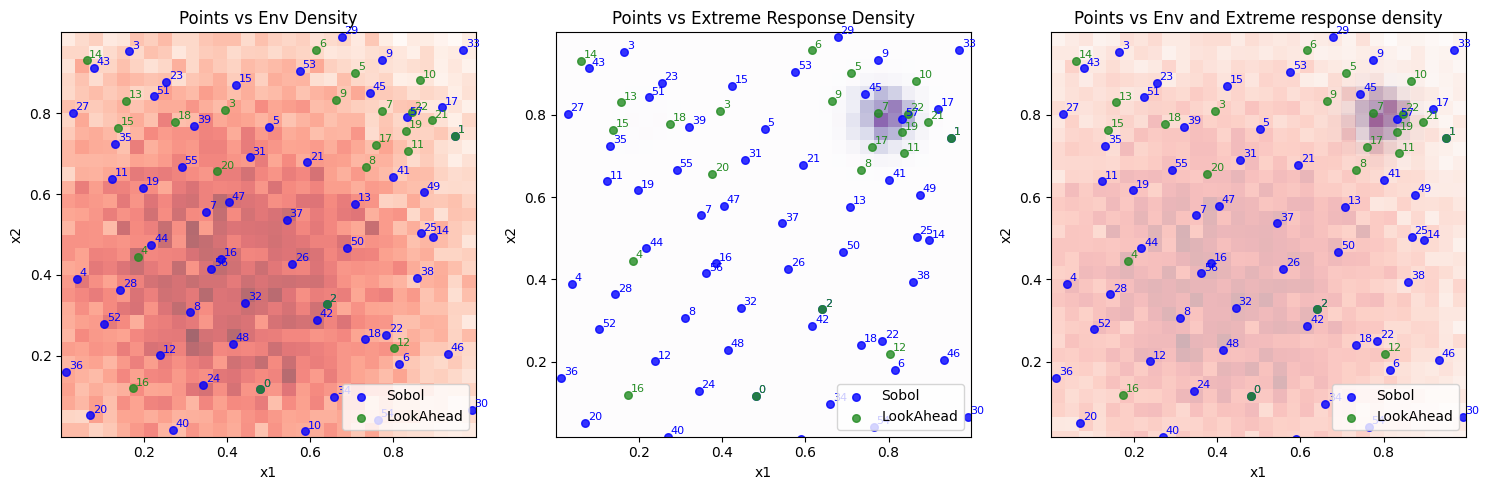
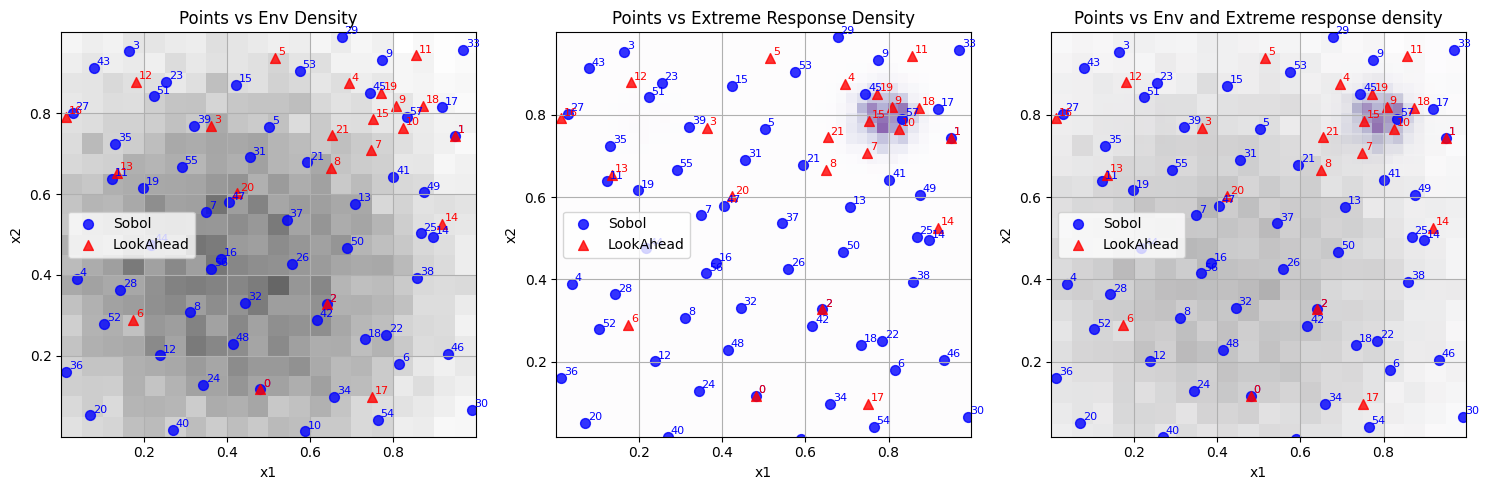
updated point selection plot and corresponding text

diff --git a/docs/source/technical_details/doe.md b/docs/source/technical_details/doe.md
@@ -120,7 +120,7 @@ It's important to note that monitoring QoI convergence and SEM reduction is valu
 Visualize where DoE selects points to understand if it's focusing on important regions, as demonstrated in Figure 3.
 
 ![point_selection](img/DoE/point_selection.png)
-*Figure 3: Point selection in search space of the DoE (Green) and Sobol (Blue) over environement and exptreme response distribution heatmaps. Here one can observe that the DoE focuses on the specific region where the extreme responses occur, while Sobol selects points more uniformly.*
+*Figure 3: Point selection in search space of the DoE (Red) and Sobol (Blue) over environement and exptreme response distribution heatmaps. Here one can observe that the DoE focuses on the specific region where the extreme responses occur, while Sobol selects points more uniformly in the search space.*
 
 One can also look at the point selection on the GP surface for more insight into how the GP fits the function the GP is approximating. The key difference between DoE ([Figure 4b](#fig-DoE-gp-surface)) and Sobol ([Figure 4a](#fig-sobol-gp-surface)) becomes apparent when examining how each approach affects the GP's ability to model the underlying function. DoE strategically selects points to achieve high accuracy in regions that are critical for QoI estimation, even if this means accepting lower accuracy in less important areas of the search space. In contrast, Sobol sampling distributes points uniformly across the entire domain, resulting in a GP that fits the underlying function more evenly across the whole search space but requires significantly more points to achieve the same level of QoI accuracy.
 
